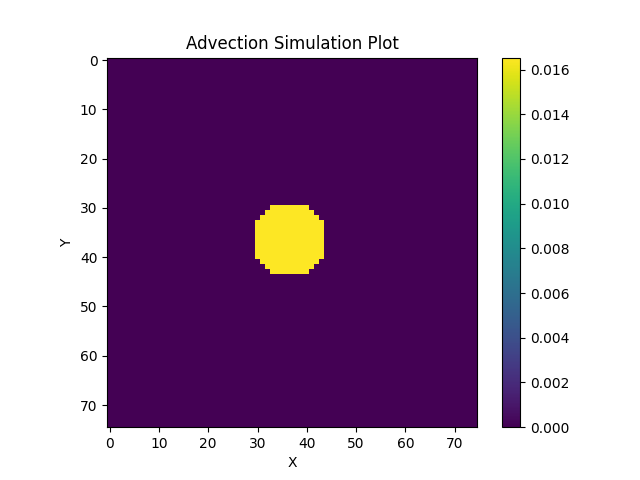
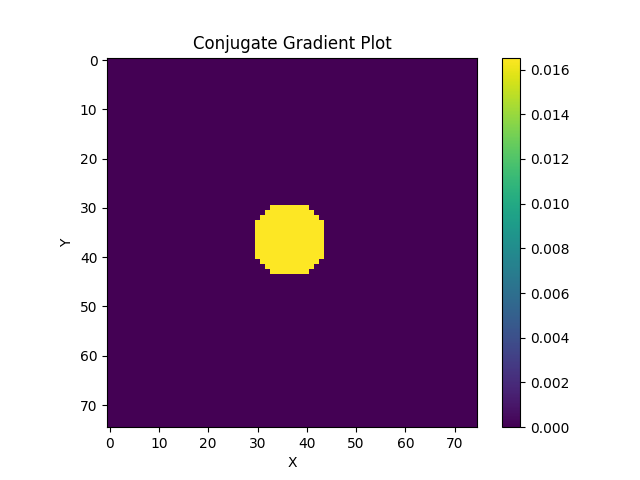
Create movie of convergencew

Changed region(s): [[0.2812, 0.0625, 0.625, 0.125]]

diff --git a/milestone-1/conjugate_gradient.cpp b/milestone-1/conjugate_gradient.cpp
@@ -75,20 +75,26 @@ void fill_b(double* b, int const& N) {
     }
 }
 
-double* axpy(double const& a, double* const& x, int const& b, double* const& y, int const& N) {
+void axpy(double* res, double const& a, double* const& x, int const& b, double* const& y, int const& N) {
     // Perform res = a * x + b * y
-    double* res = new double[N];
-    for (int i = 0; i < N; i++) {
-        res[i] = a * x[i] + b * y[i];
+    int n = sqrt(N);
+    for (int i = 0; i < n; i++) {
+        for (int j = 0; j < n; j++) {
+            int idx = i*n + j;
+            res[idx] = a * x[idx] + b * y[idx];
+        }
     }
-    return res;
 }
 
 double dot(double* const& x, double* const& y, int const& N) {
     // Perform res = x * y
+    int n = sqrt(N);
     double res = 0.0;
-    for (int i = 0; i < N; i++) {
-        res += x[i] * y[i];
+    for (int i = 0; i < n; i++) {
+        for (int j = 0; j < n; j++) {
+            int idx = i*n + j;
+            res += x[idx] * y[idx];
+        }
     }
     return res;
 }
@@ -103,67 +109,58 @@ double* poisson_on_the_fly(double* const& w, int const& N) {
     double* res = new double[N];
 
     for (int i = 0; i < N; i++) {
-        t3 = w[i];
+        t3 = 4*w[i];
 
         if (i < n) {
             t1 = 0.0;
-        } 
-        else {
+        } else {
             t1 = w[i - n];
         }
 
         if (i < 1) {
             t2 = 0.0;
-        } 
-        else {
+        } else {
             t2 = w[i - 1];
         }
 
         if (i >= N - 1) {
             t4 = 0.0;
-        } 
-        else {
+        } else {
             t4 = w[i + 1];
         }
 
         if (i >= N - n) {
             t5 = 0.0;
-        } 
-        else {
+        } else {
             t5 = w[i + n];
         }
 
-        res[i] = 4*t3 - t1 - t2 - t4 - t5;
+        res[i] = t3 - t1 - t2 - t4 - t5;
     }
 
     return res;
 }
 
-double* conjugate_gradient(double* const& b, int const& n) {
+void conjugate_gradient(double* const& b, double* x, int const& n) {
     // Initialize variables
     int N = n * n;
+    // Tolerance for the solution to stop after convergence
+    double tol = 1e-10;
 
     // Write RHS to file
     write_to_file(b, "./output/b.txt", 0, N);
 
-    // Allocated memory for the following arrays follow a column major order
-    double* x = new double[N];
     double* r = new double[N];
-    double* p = new double[N];
-    double* z = new double[N];
-
-    double alpha;
-    double rsnew;
-
-    // Tolerance for the solution to stop after convergence
-    double tol = 1e-10;
-
-    // r = b - Ax
+    // r = -Ax + b
     double* Ax = poisson_on_the_fly(x, N);
-    r = axpy(1, b, -1, Ax, N);
-    
+    axpy(r, -1.0, Ax, 1.0, b, N);
+
+
+    double* p = new double[N];
     // p = r
-    copy(r, r + N, p);
+    copy(r, r + N*sizeof(double), p);
+    
+    double* z = new double[N];    
 
     // rsold = rT * r
     double rsold = dot(r, r, N);
@@ -178,27 +175,27 @@ double* conjugate_gradient(double* const& b, int const& n) {
         z = poisson_on_the_fly(p, N);
 
         // alpha = rsold / (p*z)
-        alpha = rsold / dot(p, z, N);
+        double alpha = rsold / dot(p, z, N);
 
         // x = x + alpha*p
-        x = axpy(1, x, alpha, p, N);
+        axpy(x, 1.0, x, alpha, p, N);
         
 
         // r = r - alpha*z
-        r = axpy(1, r, -alpha, z, N);
+        axpy(r, 1.0, r, -alpha, z, N);
 
         // rsnew = rT*r
-        rsnew = dot(r, r, N);
+        double rsnew = dot(r, r, N);
 
         // If the residual is small enough, stop
-        if (sqrt(rsnew) < tol) {
+        if (sqrt(rsnew) <= tol) {
+            cout << "Converged after " << i << " iterations" << endl;
             break;
         }
 
         // p = r + rsnew / rsold * p
-        p = axpy(1, r, rsnew / rsold, p, N);
+        axpy(p, 1.0, r, rsnew/rsold, p, N);
 
-        // rsold = rsnew
         rsold = rsnew;
 
         // Stop timer
@@ -207,12 +204,17 @@ double* conjugate_gradient(double* const& b, int const& n) {
         // Print time taken
         auto duration = duration_cast<microseconds>(te - ts);
         cout << "Iteration: " << i << " - Grind Rate: " << int(1/(1e-6*duration.count())) << " iter/sec" << endl;
+
+        // if (i % 100 == 0) {
+        //     // Write solution to file
+        //     char filename[100];
+        //     int dummy_var = sprintf(filename, "./output/output_x_%d.txt", i);
+        //     write_to_file(x, filename, i, N);
+        // }
     }
 
     // Write solution to file
     write_to_file(x, "./output/x.txt", N, N);
-
-    return x;
 }
 
 int main(int argc, char** argv) {
@@ -235,7 +237,7 @@ int main(int argc, char** argv) {
     auto s = high_resolution_clock::now();
 
     // Run simulation
-    x = conjugate_gradient(b, n);
+    conjugate_gradient(b, x, n);
 
     // Stop timer
     auto e = high_resolution_clock::now();

diff --git a/milestone-1/visualize.py b/milestone-1/visualize.py
@@ -1,6 +1,7 @@
 import numpy as np
 import matplotlib.pyplot as plt
 import ast
+import os
 
 def read_file(filename):
     '''
@@ -24,13 +25,44 @@ def generate_plots(filename):
     plt.xlabel('X')
     plt.ylabel('Y')
     plt.colorbar(orientation='vertical')
-    plt.title('Advection Simulation Plot')
+    plt.title('Conjugate Gradient Plot')
 
     plt.savefig('.' + filename.split('.')[1] + '.png')
     
     plt.close()
 
+def generate_movie():
+    '''
+    Plot and save the data.
+    '''
+    imgs = []
+    step = 100
+    NT = len(os.listdir('./output/'))*step
+    for i in range(0, NT, step):
+        try:
+            data = read_file("./output/output_x_" + str(i) + ".txt")
+            imgs.append(data)
+        except FileNotFoundError:
+            continue
+    
+    fig = plt.figure()
+    viewer = fig.add_subplot(111)
+    plt.ion() # Turns interactive mode on (probably unnecessary)
+    fig.show() # Initially shows the figure
+    for i in range(len(imgs)):
+        print("Plotting Simulation Sample : " + str(i+1))
+        viewer.clear() # Clears the previous image
+        viewer.imshow(imgs[i][1]) # Loads the new image
+        plt.pause(.001) # Delay in seconds
+        fig.canvas.draw() # Draws the image to the screen
+
+
 
 if __name__ == '__main__':
+    gen_mov = False
+
     generate_plots('./output/b.txt')
     generate_plots('./output/x.txt')
+
+    if gen_mov:
+        generate_movie()
